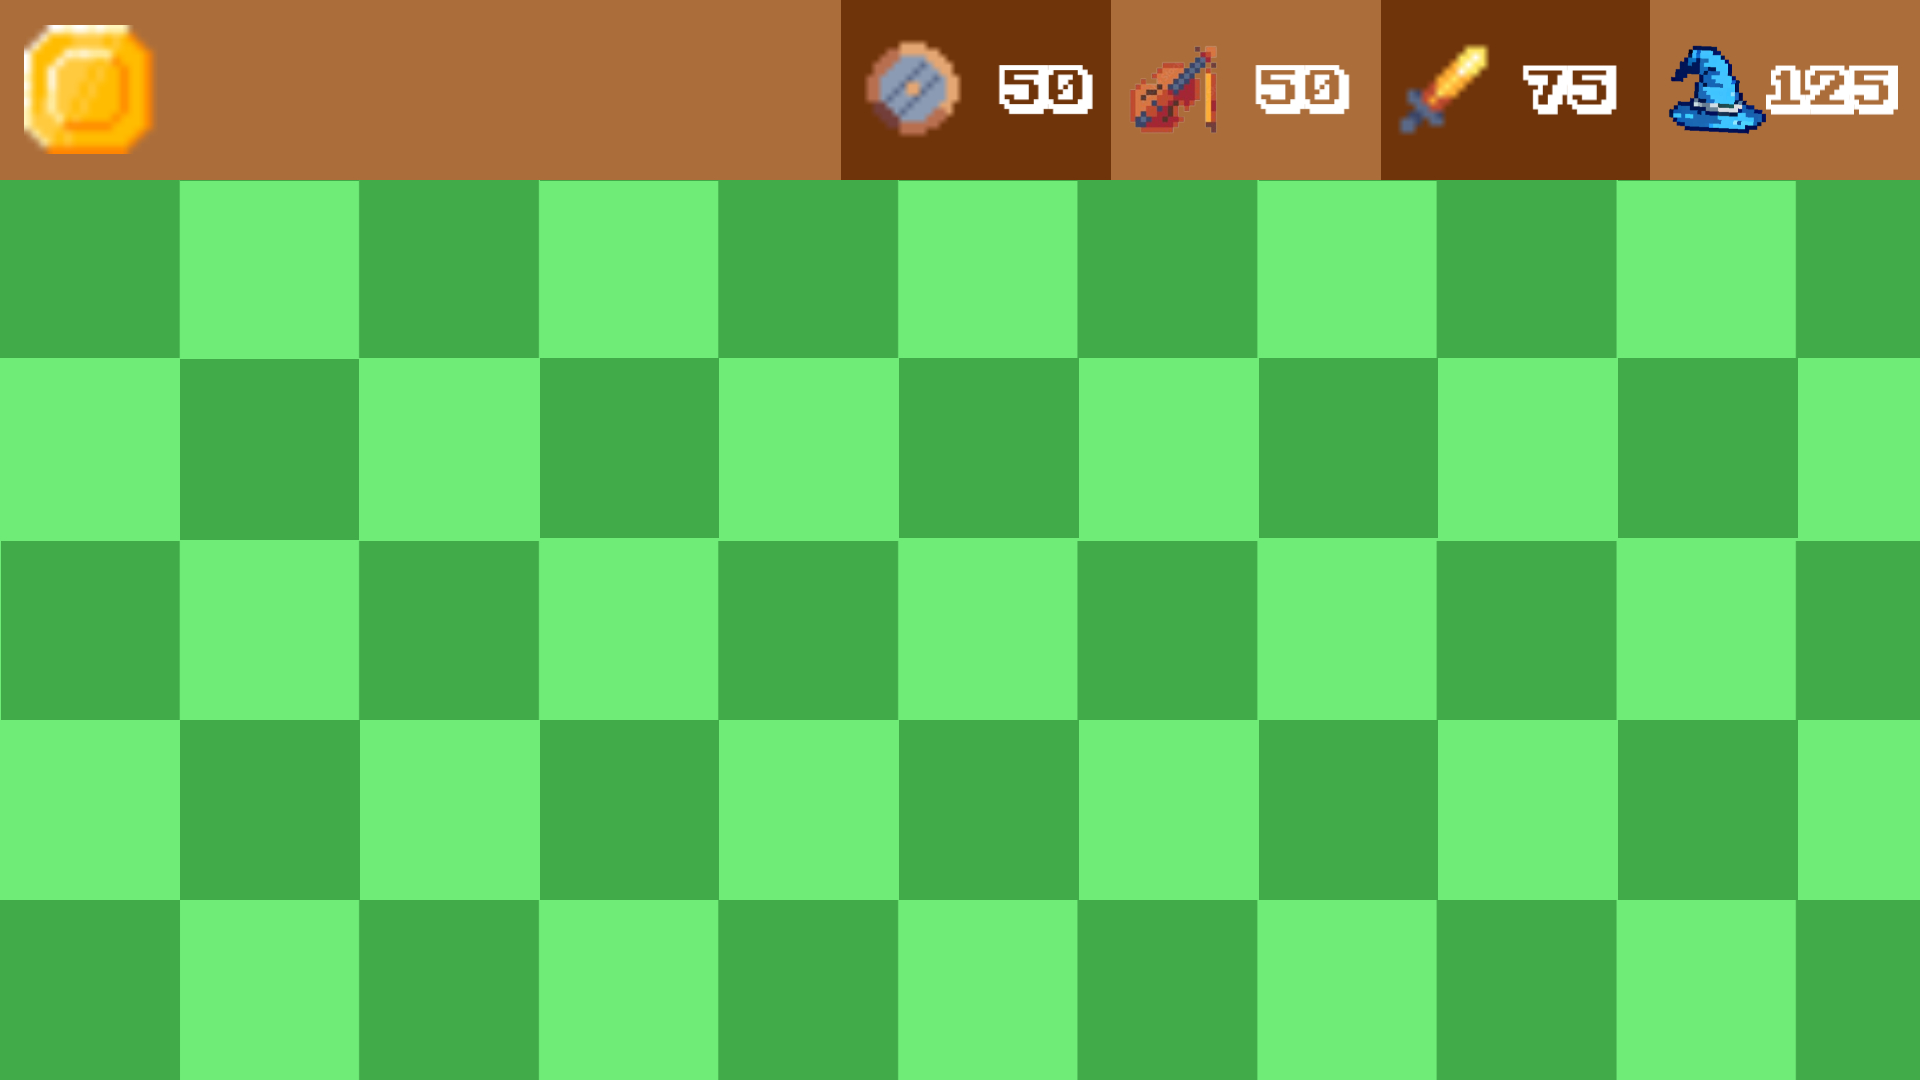
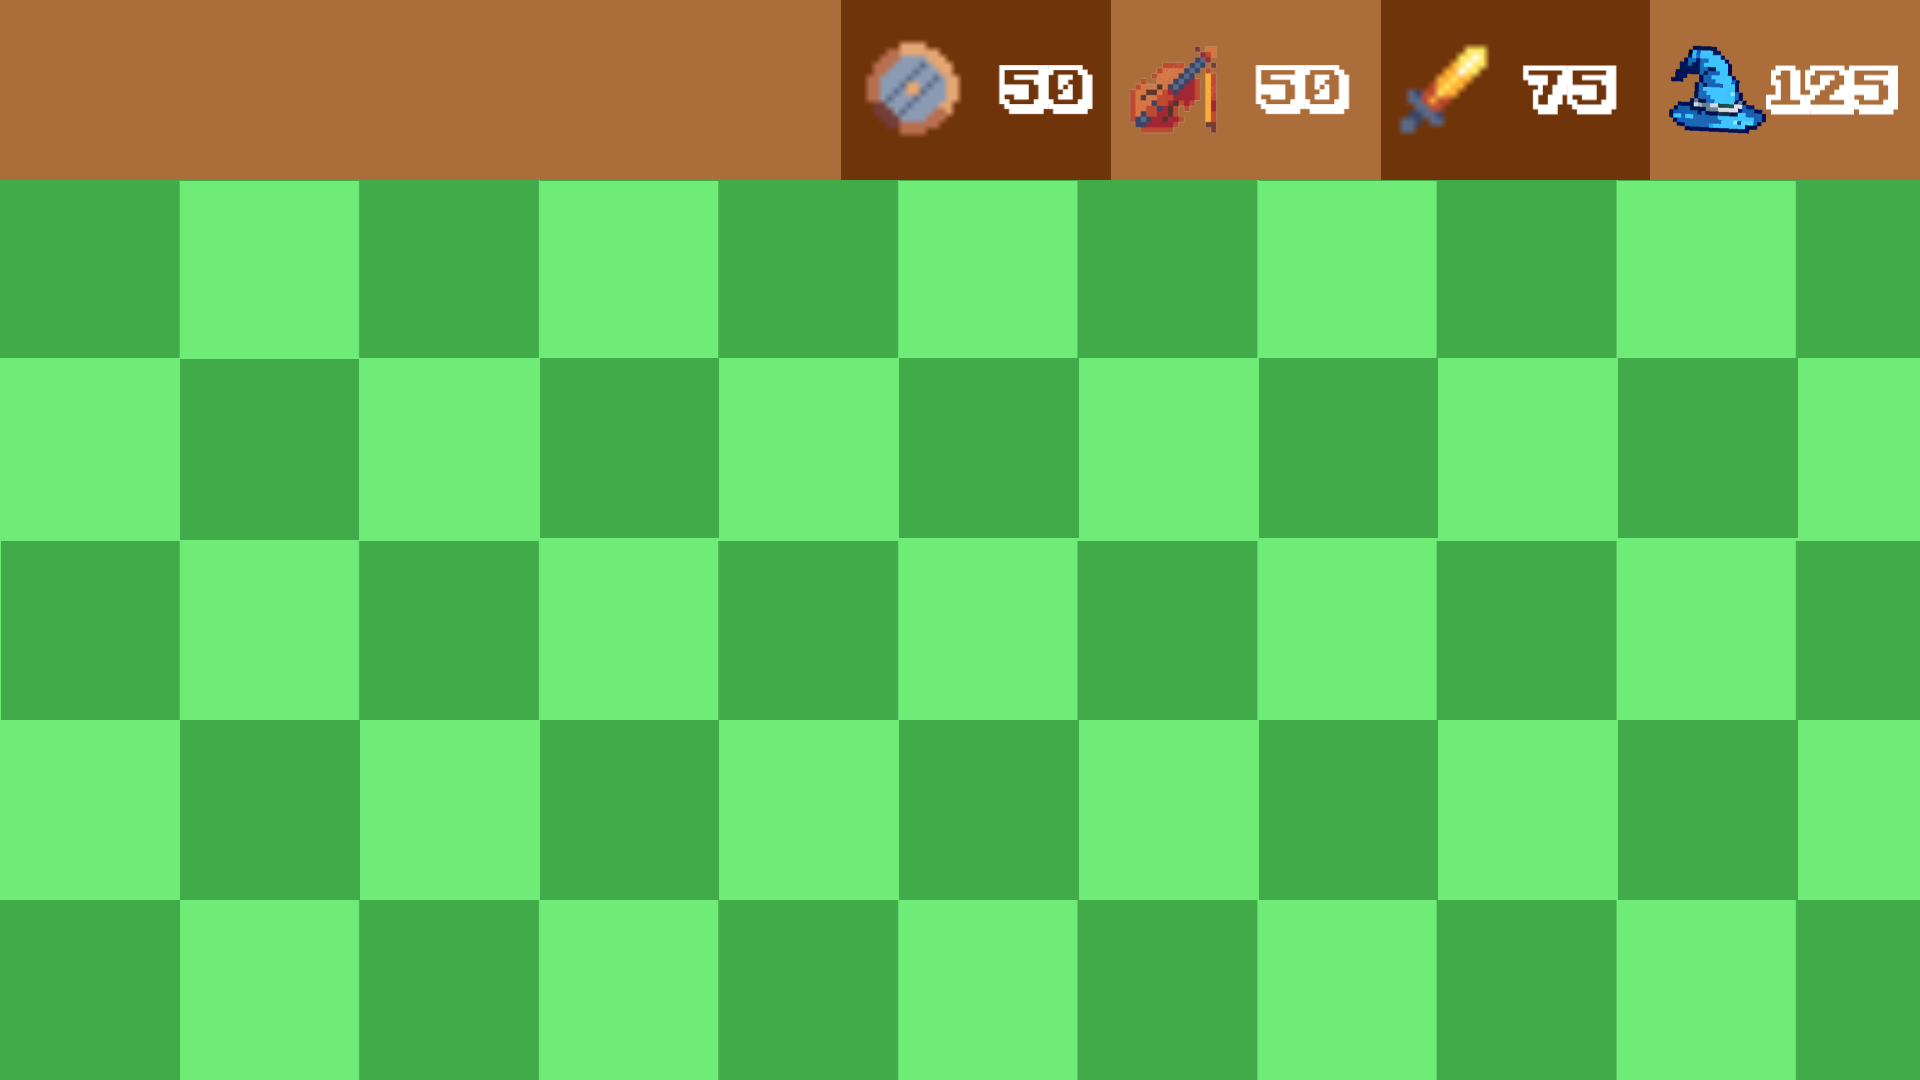
fixed some of graphic issues + added assets

Changed region(s): [[0.0, 0.0, 0.0938, 0.1528]]

diff --git a/core/src/main/java/org/toadallyarmed/gameplay/GameScreen.java b/core/src/main/java/org/toadallyarmed/gameplay/GameScreen.java
@@ -13,18 +13,37 @@ public class GameScreen implements Screen {
     FitViewport viewport;
 
     Texture backgroundTexture;
-    Texture testFrogTexture;
-    TextureRegion testFrogTextureRegion;
+    Texture moneyFrogTexture, tankFrogTexture, knightFrogTexture, basicFrogTexture, wizardFrogTexture;
+    Texture randomHedgehogTexture;
+    Texture coinTexture;
+    TextureRegion moneyFrogTextureRegion, tankFrogTextureRegion, knightFrogTextureRegion, basicFrogTextureRegion, wizardFrogTextureRegion;
+    TextureRegion randomHedgehogTextureRegion;
+    TextureRegion coinTextureRegion;
+
+    //BitmapFont pixelFont;
 
     public GameScreen(Main main) {
         this.main = main;
 
-        viewport = new FitViewport(12, 6);
+        viewport = new FitViewport(10.66F, 6);
         this.main.updateFontScale(viewport);
 
         backgroundTexture = new Texture("GameScreen/background.jpg");
-        testFrogTexture = new Texture("GameScreen/Frogs/Wizard/FrogWizardAttack.png");
-        testFrogTextureRegion = new TextureRegion(testFrogTexture, 0, 0, 86, 66);
+        moneyFrogTexture = new Texture("GameScreen/Frogs/moneyFrog.png");
+        tankFrogTexture = new Texture("GameScreen/Frogs/tankFrog.png");
+        knightFrogTexture = new Texture("GameScreen/Frogs/knightFrog.png");
+        basicFrogTexture= new Texture("GameScreen/Frogs/basicFrog.png");
+        wizardFrogTexture = new Texture("GameScreen/Frogs/wizardFrog.png");
+        randomHedgehogTexture= new Texture("GameScreen/Hedgehogs/purpleHedgehog.png");
+        coinTexture = new Texture("GameScreen/Coins/coin.png");
+
+        moneyFrogTextureRegion = new TextureRegion(moneyFrogTexture, 0, 0, 44, 33);
+        tankFrogTextureRegion = new TextureRegion(tankFrogTexture, 0, 0, 44, 33);
+        knightFrogTextureRegion = new TextureRegion(knightFrogTexture, 0, 0, 44, 33);
+        basicFrogTextureRegion = new TextureRegion(basicFrogTexture, 0, 0, 44, 33);
+        wizardFrogTextureRegion = new TextureRegion(wizardFrogTexture, 0, 0, 44, 33);
+        randomHedgehogTextureRegion= new TextureRegion(randomHedgehogTexture, 120, 80, 24, 16);
+        coinTextureRegion=new TextureRegion(coinTexture, 0, 0, 16, 16);
     }
 
     @Override
@@ -43,11 +62,20 @@ public class GameScreen implements Screen {
 
         float worldWidth = viewport.getWorldWidth();
         float worldHeight = viewport.getWorldHeight();
-
         main.spriteBatch.draw(backgroundTexture, 0, 0, worldWidth, worldHeight);
-        main.spriteBatch.draw(testFrogTextureRegion, 0, 0, 1, 1);
 
-        main.font.draw(main.spriteBatch, "Hello World!", 0, worldHeight);
+        main.spriteBatch.draw(moneyFrogTextureRegion,  -0.3F, 0.1F, 1.5F, 1.5F);
+        main.spriteBatch.draw(tankFrogTextureRegion,  -0.3F, 1.1F, 1.5F, 1.5F);
+        main.spriteBatch.draw(wizardFrogTextureRegion, -0.3F, 2.1F, 1.5F, 1.5F);
+        main.spriteBatch.draw(knightFrogTextureRegion, -0.3F, 3.1F, 1.5F, 1.5F);
+        main.spriteBatch.draw(basicFrogTextureRegion, -0.3F, 4.1F, 1.5F, 1.5F);
+        main.spriteBatch.draw(randomHedgehogTextureRegion, 1, 1.1F, 0.9F, 0.9F);
+        main.spriteBatch.draw(coinTextureRegion,  0.15F, 5.15F, 0.7F, 0.7F);
+
+
+        //tryna get it to work
+        //pixelFont=new BitmapFont(Gdx.files.internal("GameScreen/Fonts/2.fnt"));
+        main.font.draw(main.spriteBatch, "You broke hehe", 1, worldHeight-0.5F);
 
         main.spriteBatch.end();
     }
@@ -78,6 +106,12 @@ public class GameScreen implements Screen {
     public void dispose() {
         // Destroy screen's assets here.
         backgroundTexture.dispose();
-        testFrogTexture.dispose();
+        moneyFrogTexture.dispose();
+        tankFrogTexture.dispose();
+        knightFrogTexture.dispose();
+        basicFrogTexture.dispose();
+        wizardFrogTexture.dispose();
+        coinTexture.dispose();
+        randomHedgehogTexture.dispose();
     }
 }
